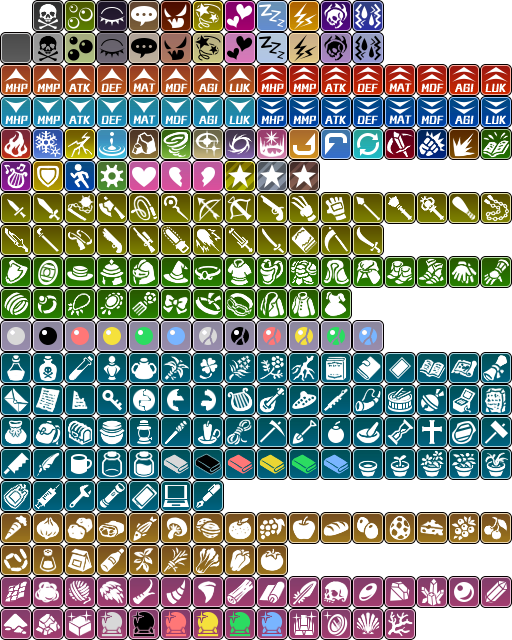
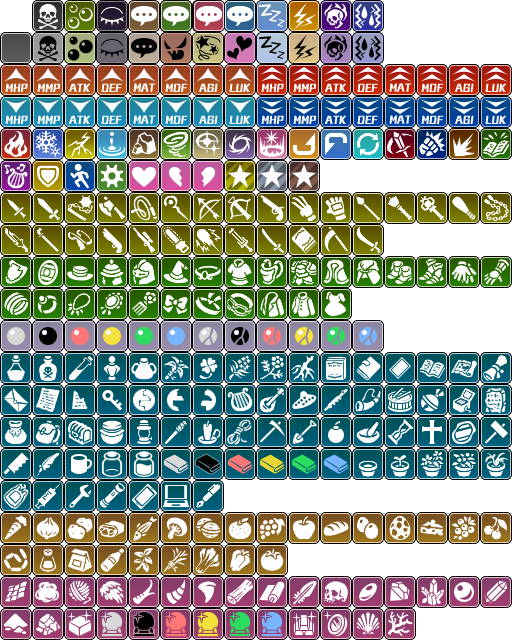
set up text bubbles

Changed region(s): [[0.3125, 0.0, 0.5, 0.0625]]

diff --git a/js/plugins.js b/js/plugins.js
@@ -18,6 +18,6 @@ var $plugins =
 {"name":"YEP_RegionRestrictions","status":true,"description":"v1.04 Use regions to block out Events and/or the player from\nbeing able to venture into those spots.","parameters":{"Player Restrict":"0","Event Restrict":"0","All Restrict":"2","Player Allow":"0","Event Allow":"0","All Allow":"1"}},
 {"name":"YEP_MoveRouteCore","status":true,"description":"v1.04 Expand the number of movement options for the move\nroute events using this plugin.","parameters":{}},
 {"name":"YEP_LoadCustomFonts","status":true,"description":"v1.01 Load custom fonts from the /fonts/ folder. This will\nallow you to use custom fonts without installing them.","parameters":{"Font Filenames":"MRF Lemonberry Sans.otf","Font Families":"Lemonberry"}},
-{"name":"YEP_IconBalloons","status":false,"description":"v1.02 Allows you to use icons for your on-map balloons\nover your characters and events!","parameters":{"Empty Filename":"EmptyBalloons"}},
+{"name":"YEP_IconBalloons","status":true,"description":"v1.02 Allows you to use icons for your on-map balloons\r\nover your characters and events!","parameters":{"Empty Filename":"EmptyBalloons"}},
 {"name":"YEP_GabWindow","status":true,"description":"v1.06 The Gab Window functions as a window for random\njibber jabber that does not require a message window.","parameters":{"---General---":"","Gab Font Name":"GameFont","Gab Font Size":"28","Character X Pos":"36","Character Y Pos":"60","Base Wait Time":"90","Time Per Character":"4","Fade Rate":"16","Anti-Repeat":"false","---Map---":"","Map Y Location":"72","Map Dim Color 1":"rgba(0, 0, 0, 0.6)","Map Dim Color 2":"rgba(0, 0, 0, 0.3)","---Battle---":"","Battle Y Location":"108","Battle Dim Color 1":"rgba(0, 0, 0, 0.6)","Battle Dim Color 2":"rgba(0, 0, 0, 0)"}}
 ];
